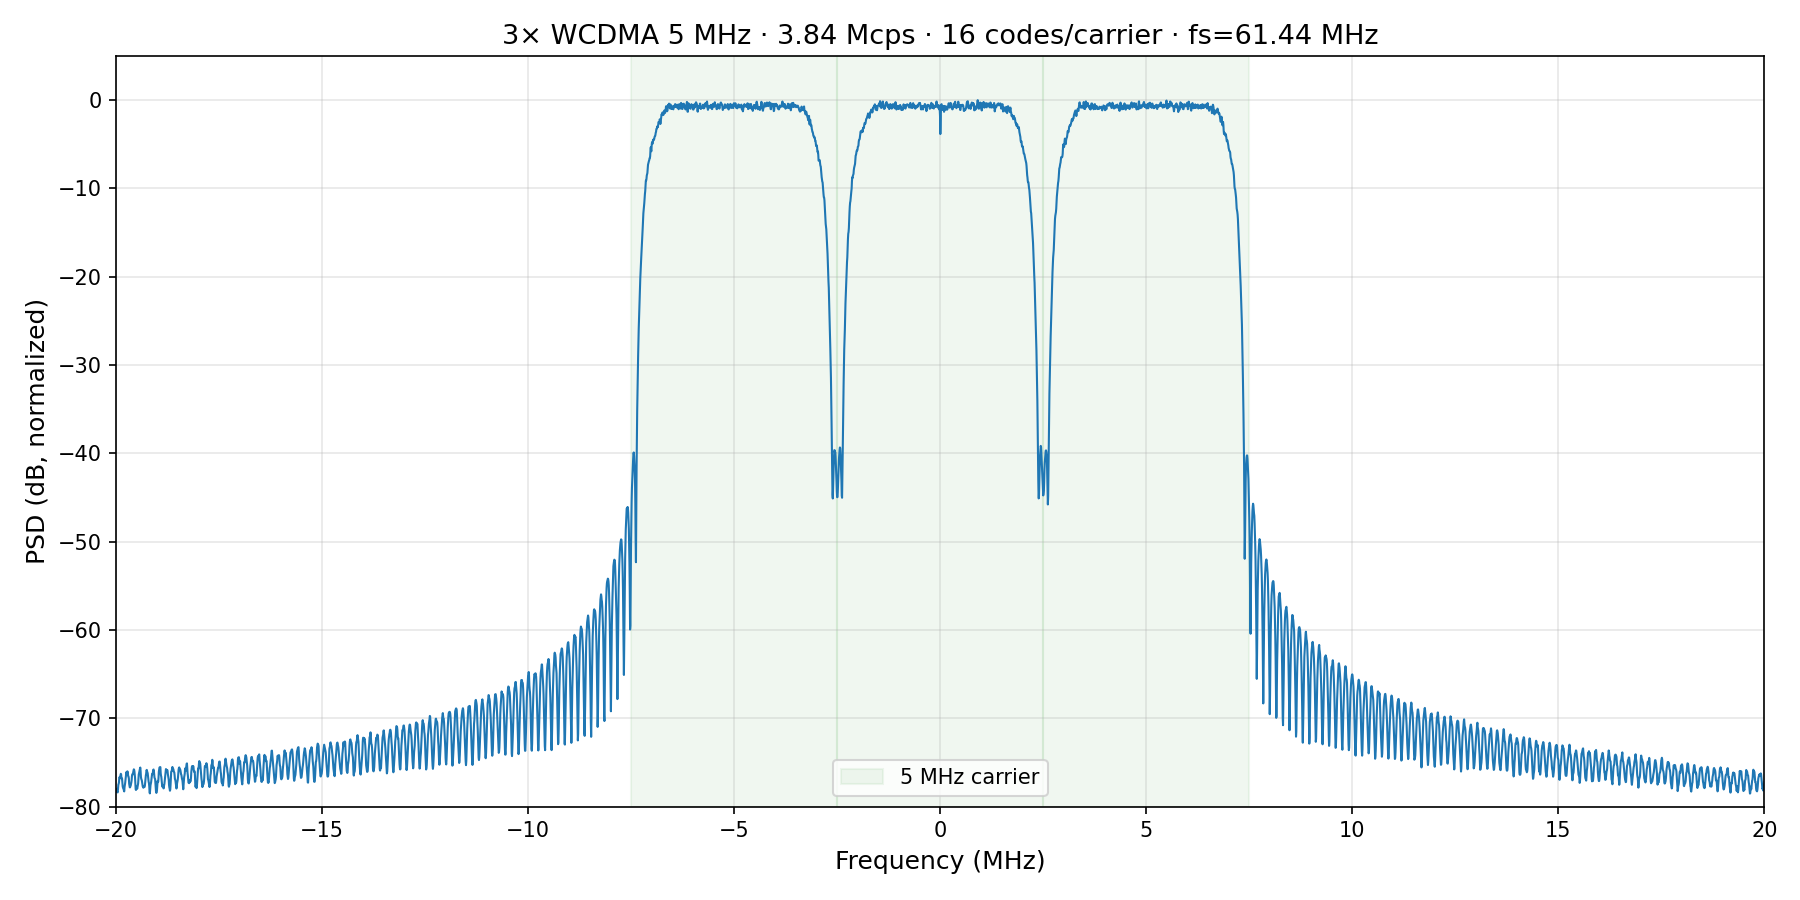
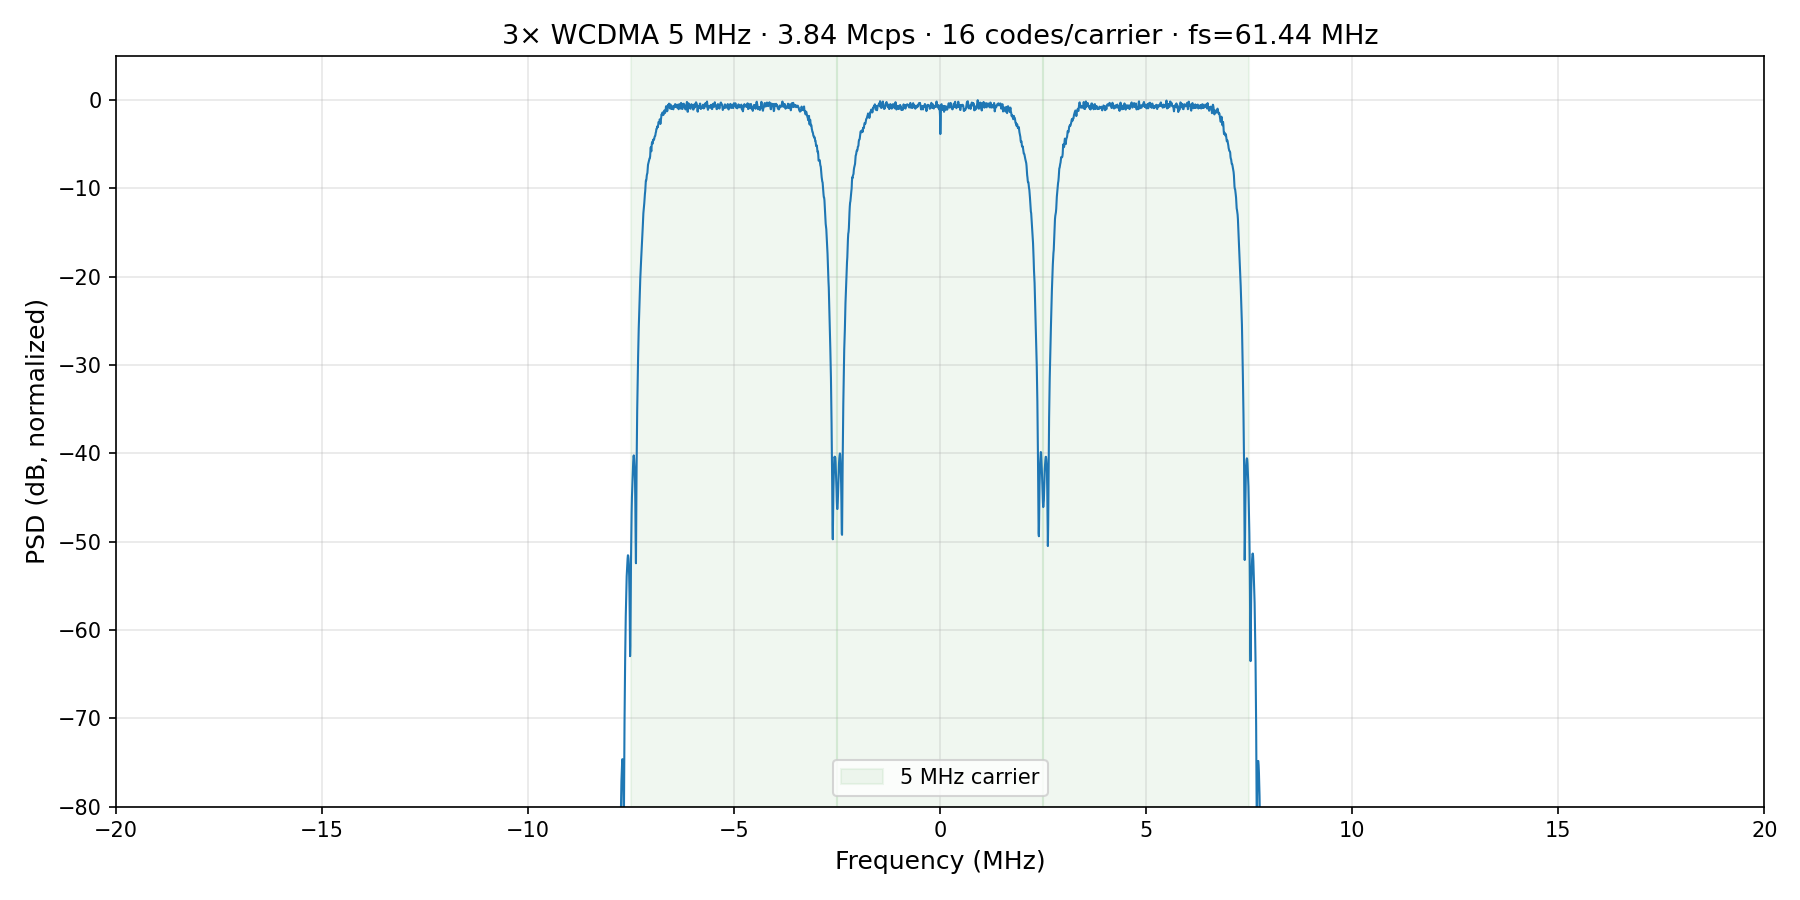
Add -80 dB channel FIR filter after RRC in WCDMA generator
Design a Kaiser-windowed FIR lowpass filter via kaiserord for 80 dB
stopband attenuation with 0.5 MHz transition band. Applied per-carrier
after RRC pulse shaping to suppress out-of-band sidelobes to -80 dB.

Made-with: Cursor

Changed region(s): [[0.0622, 0.56, 0.3733, 0.9022], [0.6844, 0.56, 0.9956, 0.9022], [0.56, 0.5289, 0.5911, 0.5911]]

diff --git a/wcdma_3carrier_psd.py b/wcdma_3carrier_psd.py
@@ -6,7 +6,7 @@ import numpy as np
 import matplotlib
 matplotlib.use('Agg')
 import matplotlib.pyplot as plt
-from scipy.signal import welch
+from scipy.signal import welch, firwin, kaiserord
 from scipy.signal.windows import blackmanharris
 
 
@@ -62,7 +62,20 @@ def generate_wcdma(n_samples, n_codes=8, chip_rate=3.84e6, fs=61.44e6, sf=16):
 
     filtered = np.convolve(upsampled, h_rrc, mode='full')
     start = len(h_rrc) // 2
-    return filtered[start : start + n_samples]
+    rrc_out = filtered[start : start + n_samples]
+
+    # Channel FIR filter: -80 dB sidelobes, passband = occupied BW
+    passband_edge = chip_rate * (1 + alpha) / 2   # 2.3424 MHz
+    stopband_edge = chip_rate * (1 + alpha) / 2 + 0.5e6
+    transition_width = stopband_edge - passband_edge
+    numtaps, beta = kaiserord(80, transition_width / (fs / 2))
+    if numtaps % 2 == 0:
+        numtaps += 1
+    cutoff = (passband_edge + stopband_edge) / 2
+    h_chan = firwin(numtaps, cutoff, window=('kaiser', beta), fs=fs)
+    chan_filtered = np.convolve(rrc_out, h_chan, mode='full')
+    start2 = len(h_chan) // 2
+    return chan_filtered[start2 : start2 + n_samples]
 
 
 def generate_multicarrier_wcdma(n_samples, n_carriers=3, carrier_spacing=5e6,
